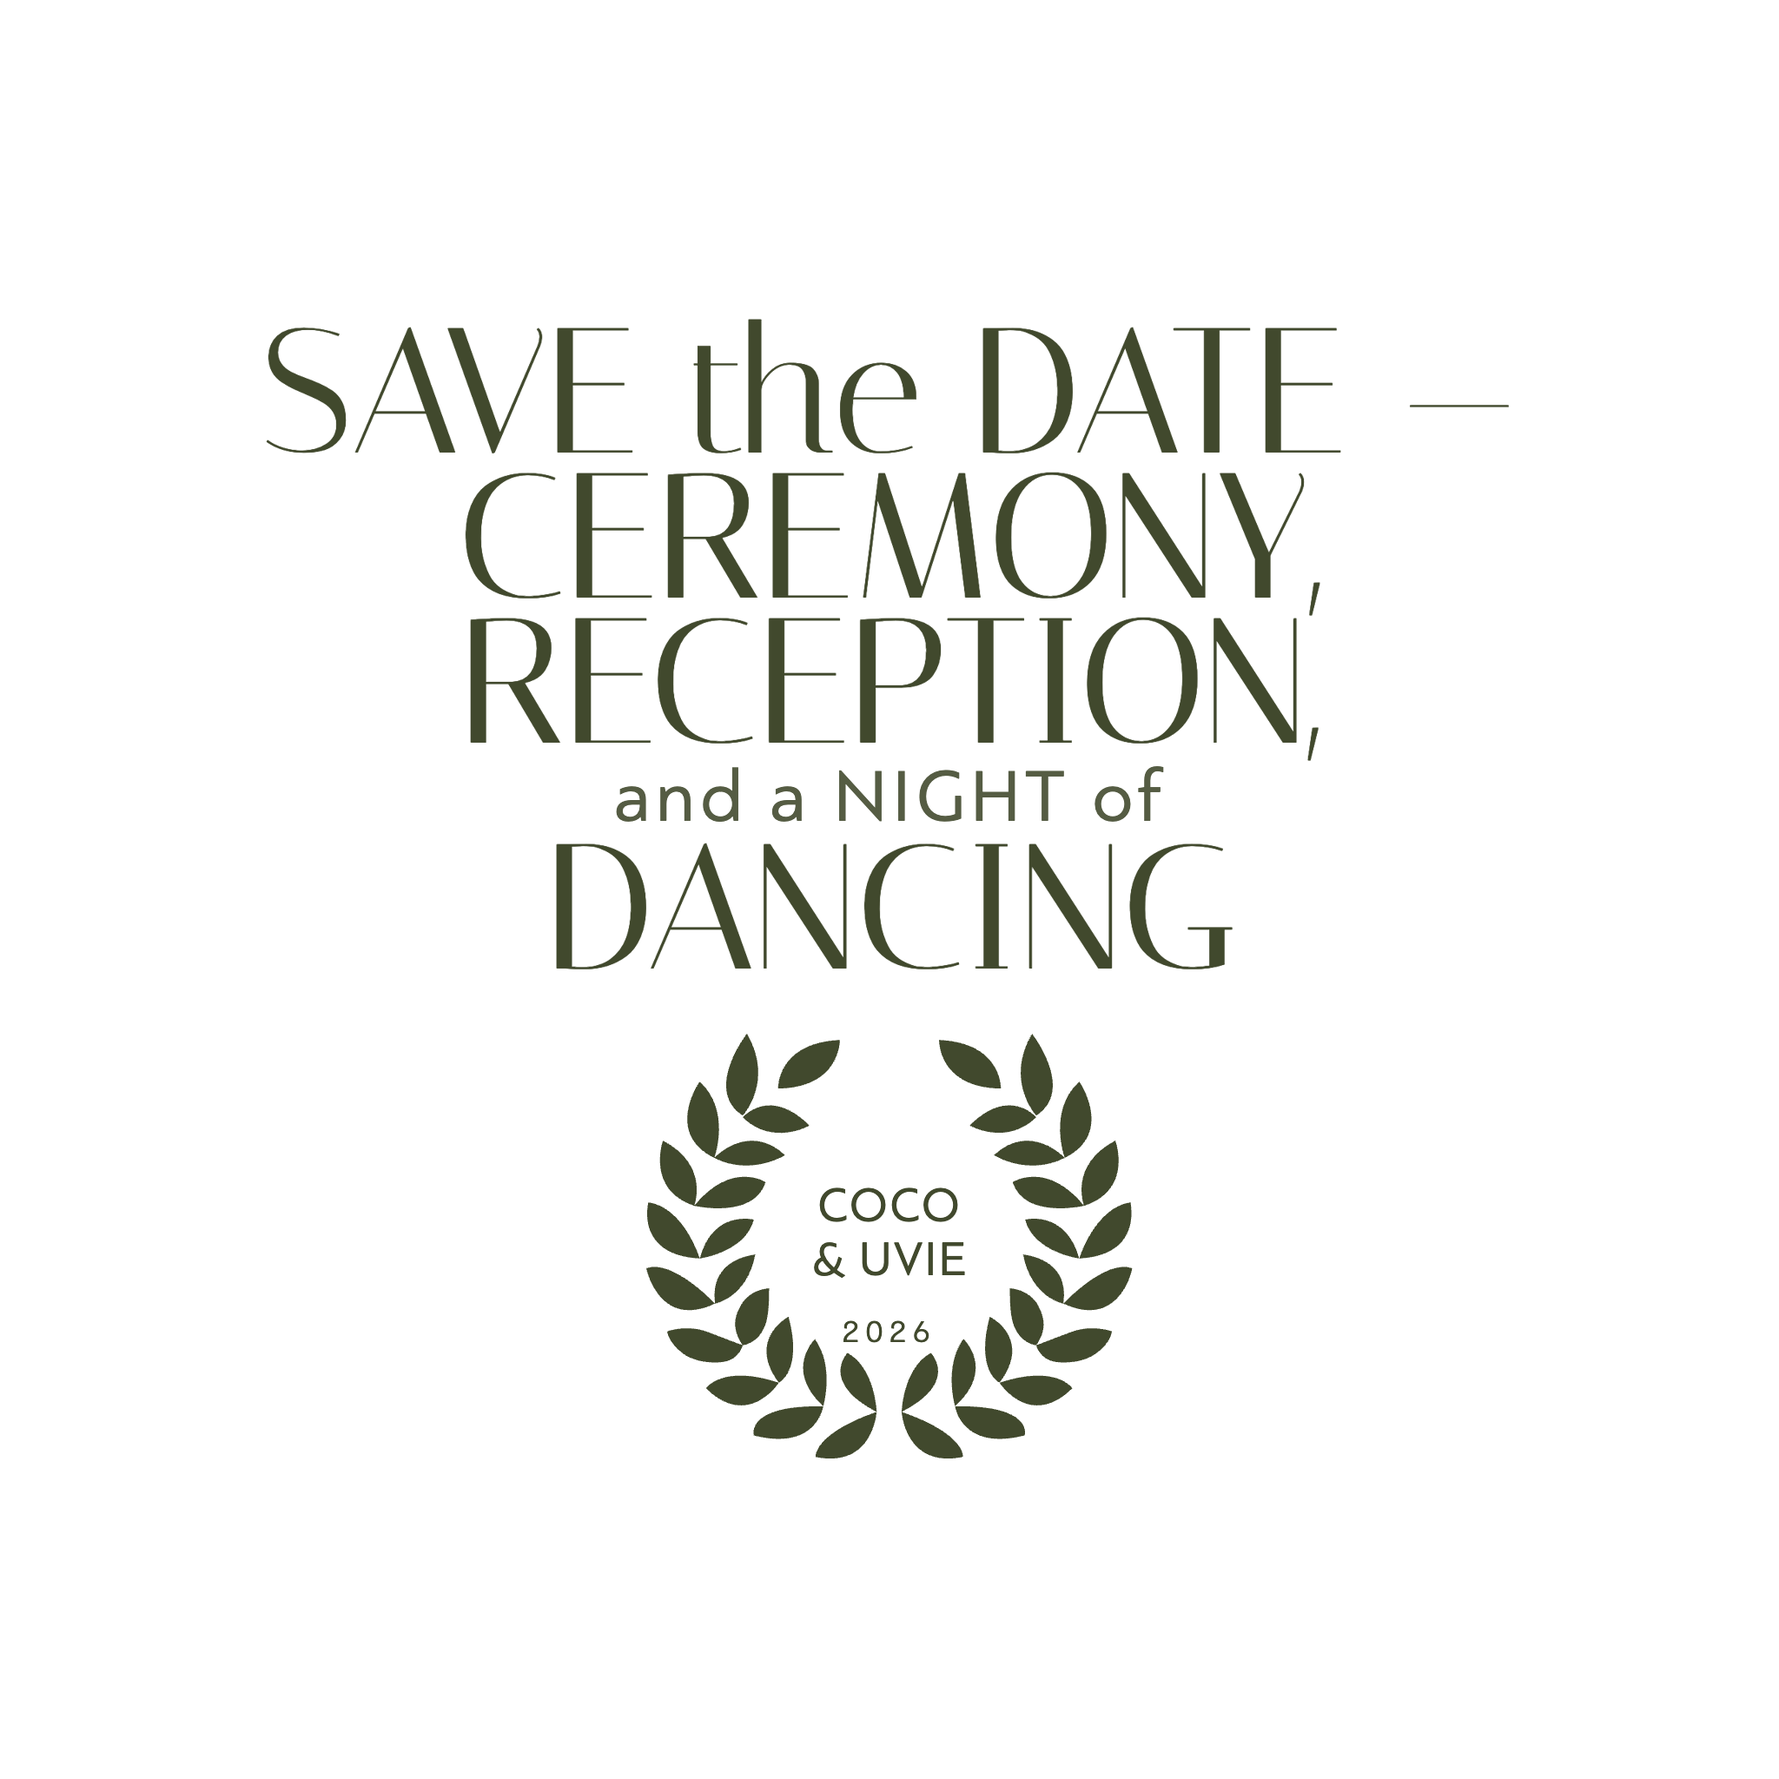
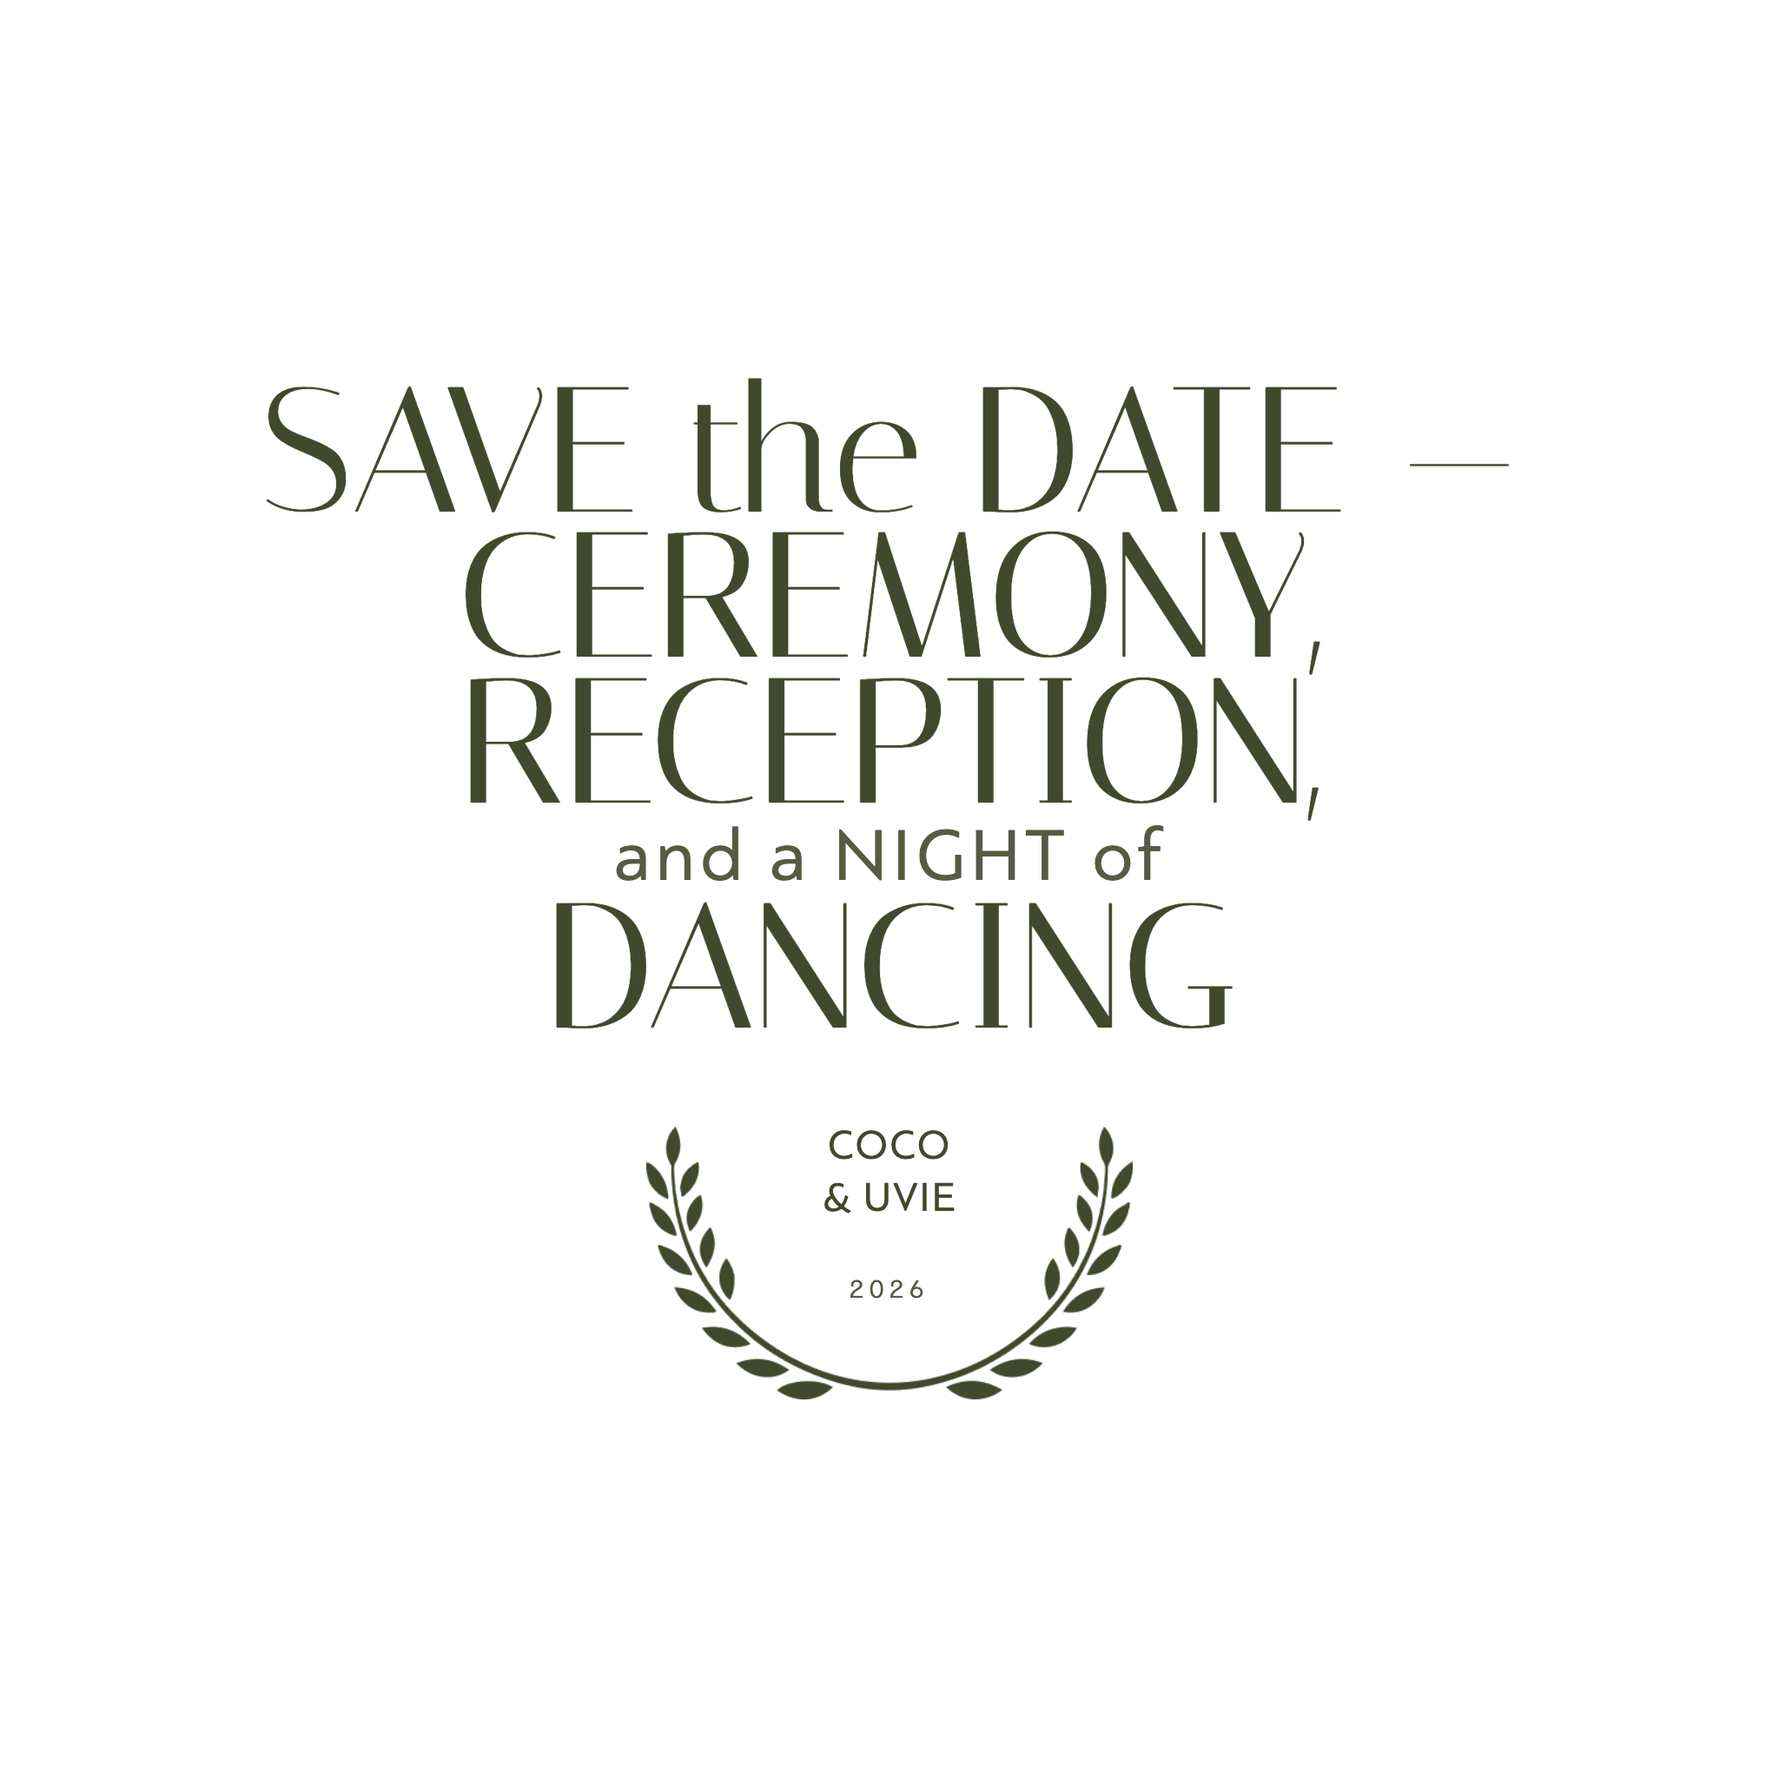
fix(laurel): their wreath, which this repo shipped until July
"I asked you to use the file from their site. That svg is not copyrighted, we already had
it on ours and deleted it."

The second half is verifiable and true, and I should have checked before substituting:
their four tagline textures (public/images/txt-1..4.png) were tracked HERE until
d8d7641a, 2026-07-24, and the wreath is baked into all four. I swapped in a CC0 vector on
a provenance assumption that was mine, not the owner's.

The badge now uses their wreath.

⚠ WHAT IS STORED IS A MASK, NOT THEIR ARTWORK IN THEIR COLOUR. scripts/assets/laurel.png
is 446x250, white on transparent. The extraction flood-fills the badge's components and
keeps only those reaching past r=150 from its centre — the two branches — which drops the
23 glyph blobs of "BEST LOVE STORY / 2024" sitting inside it. 46 components in, 23 out.
badgeCss paints it with currentColor, so each chapter gets the wreath in its own ink;
a straight crop of theirs is one fixed colour and could not.

⚠ 446px is plenty. The badge draws at 560 inside a 2048² texture that renders about
130px wide at 1440 — the mask is downsampled at every size the site actually uses.

⚠ This is NOT the same call as the four per-chapter audio tracks, which were pulled as
unlicensed (site.config.js). That one stands.

Two hand-drawn wreaths (#133, #134) and one CC0 substitute (#135) came before this. The
lesson is not about draughtsmanship: when the user names a specific asset, that is the
[…]

Changed region(s): [[0.125, 0.1875, 0.75, 0.8125], [0.3125, 0.1875, 0.3438, 0.2188]]

diff --git a/AUDIT.md b/AUDIT.md
@@ -1514,4 +1514,5 @@ second time** — the rule was already written in ARCHITECTURE.md.
 | 132 | The tagline went blank while the deck was scrolling | 🟠 High | ✅ Fixed 2026-09-18 — user: *"as I scroll through the deck the text mesh should change. Right now it's empty while I scroll and only shows when the deck settles on one card."* **Two faults, stacked.** (1) `setTxtChapter` killed the running tween and started a NEW fade to zero from wherever the last one had reached, and the fade back IN only existed inside that tween's `onComplete` — which the next change killed before it could fire. The front card changes every 45° of ring rotation, so a scroll re-targets it several times a second and the opacity was dragged down again and again. One swap now runs at a time and always finishes; a change arriving mid-swap only moves the target, and the swap reads the latest one when it turns over. (2) ⚠ **`alphaTest: 0.5` ON THE TAGLINE MATERIAL MADE EVERY CROSSFADE A HARD CUT.** An alphaTest discards any fragment whose alpha — texel × material opacity — falls under it, so the whole plane vanished the instant its opacity crossed 0.5 and reappeared the instant it crossed back. Every fade this material has ever run was really a cut at the halfway mark. The plane writes no depth, so nothing needed it; removed. ⚠ `cancelTxtSwap()` hands the opacity back at the three points where the scene takes it over (select, the return scrub, the bottom exit) — killing the tween alone would leave `txtSwapping` true, and every later swap would be dropped for the rest of the session. |
 | 133 | The laurel | 🟢 Low | ✅ Added 2026-09-18, **redrawn the same day — see #134** — user: *"can we add the flower thing to the bottom of our text mesh? Ofc change it to Coco & Uvie and the year to 2026."* An award laurel under the tagline reading **COCO & UVIE / 2026**, in the chapter's own ink, baked into the same `cu-txt*.png` texture — one plane means one fade, one depth sort, one scale, and the ink for free. ⚠ **DRAWN, NOT TRACED.** `laurelSvg()` computes both sprays: leaves biggest mid-branch and tapering at both ends (a laurel is a spray; one leaf size reads as a cog), with a smaller second row inside the stem. This repo carries none of the reference's art and this is no exception. ⚠ Set in Bague, not Italiana: the badge is chrome, in the chrome voice, under a display-voice tagline. ⚠ **IT MOVED THE TYPE.** The texture is one centred group, so ~500px of new content in a 2048px square pushed the type up ~60px on screen and into the nav — `TXT_Y_DESKTOP` −2 → **−7.5** puts the type back and drops the badge into the band the deeper dip (#129) opened between the last line and the card tops. ⚠ `node scripts/gen-textures.mjs --taglines` regenerates only `cu-txt*.png`; re-run `gen-image-variants.mjs` after it or the `-sm` textures a phone loads are the old art. |
 | 134 | The laurel was a cog, not a wreath | 🟡 Medium | ✅ Fixed 2026-09-18, **and replaced outright — see #135** — user: *"the flower you added looks weird and bad compared to reference site's."* It was proportion, not craft, and I had drawn it from the small screenshot instead of measuring. Pulled their own tagline texture (`/images/txt-1.png`, 2048², studied in the scratchpad — **nothing from it is in this repo**) and measured the badge at full size: | | | ⚠ **the arc spans ~100° from the bottom, not 130°** — theirs is a wide shallow BOWL, mine was very nearly a closed circle; **each leaf is ~0.25 of the wreath's radius, not 0.43**; and there are **~15 a side, not 8**. Small and dense reads as laurel; big and few reads as a cog. ⚠ **AND A BÉZIER BUG UNDERNEATH IT:** a quadratic peaks at HALF its control offset, so `Q L/2 −W/2 … Q L/2 W/2` draws a leaf **W/2** wide, not W. Every leaf was half the width I thought I was specifying, which is what made the first redraw read as spikes. Controls sit at ±W now. ⚠ Every leaf sweeps along the branch toward its tip, which is why the ones at the bottom lie flat instead of hanging down — an earlier pass mirrored them about the stem and they came out as little birds. |
-| 135 | Stop drawing the laurel | 🟢 Low | ✅ Fixed 2026-09-18 — the redraw was rejected too (*"it's worse now. Can we just copy theirs exactly?"*, then *"go ahead and use theirs no problem"*). **The badge is now a CC0 vector, and the reference's file is still not in this repo.** A laurel is ornamental draughtsmanship; two hand-built ones read as homemade even after the proportions were measured off theirs, and the answer was to use one drawn by somebody who draws ornament: *Greek Roman Laurel wreath vector.svg* by Dalovar on Wikimedia Commons, **CC0 1.0** — public domain, no attribution required, commercial use permitted. Stored at `scripts/assets/laurel.svg` with its provenance in the file. ⚠ It is also the better ASSET: real vector (sharp at any texture size, and ours is baked at 560px where theirs is a ~350px raster), and it carries no fill of its own, so each chapter paints it with its own ink — a crop of theirs would have been a fixed-colour bitmap needing an alpha mask per chapter. ⚠ **This site has form here**: four per-chapter audio tracks were the reference's, renamed and unlicensed, and had to be pulled (see `site.config.js`). Every mark on the page should be one the couple can keep. ⚠ The upstream file embeds the base64 raster it was traced from and paints all 38 paths `#6D9D30`; both are stripped in ours. |
+| 135 | Stop drawing the laurel | 🟢 Low | ✅ Fixed 2026-09-18, **superseded the same day — see #136** — the redraw was rejected too (*"it's worse now. Can we just copy theirs exactly?"*, then *"go ahead and use theirs no problem"*). **The badge is now a CC0 vector, and the reference's file is still not in this repo.** A laurel is ornamental draughtsmanship; two hand-built ones read as homemade even after the proportions were measured off theirs, and the answer was to use one drawn by somebody who draws ornament: *Greek Roman Laurel wreath vector.svg* by Dalovar on Wikimedia Commons, **CC0 1.0** — public domain, no attribution required, commercial use permitted. Stored at `scripts/assets/laurel.svg` with its provenance in the file. ⚠ It is also the better ASSET: real vector (sharp at any texture size, and ours is baked at 560px where theirs is a ~350px raster), and it carries no fill of its own, so each chapter paints it with its own ink — a crop of theirs would have been a fixed-colour bitmap needing an alpha mask per chapter. ⚠ **This site has form here**: four per-chapter audio tracks were the reference's, renamed and unlicensed, and had to be pulled (see `site.config.js`). Every mark on the page should be one the couple can keep. ⚠ The upstream file embeds the base64 raster it was traced from and paints all 38 paths `#6D9D30`; both are stripped in ours. |
+| 136 | The laurel is the reference's own, and it was ours before | 🟢 Low | ✅ Fixed 2026-09-18 — user, correcting me: *"I asked you to use the file from their site. That svg is not copyrighted, we already had it on ours and deleted it."* **The second half is verifiable and true:** their four tagline textures (`public/images/txt-1..4.png`) were tracked in this repo until **d8d7641a (2026-07-24)**, and the wreath is baked into all four — I had substituted a CC0 vector (#135) on a provenance assumption the owner corrected. The wreath now comes from their texture, at the owner's instruction. ⚠ **WHAT IS STORED IS A MASK, NOT THEIR ARTWORK IN THEIR COLOUR** — `scripts/assets/laurel.png`, 446×250, white-on-transparent. Extraction: flood-fill the badge's components and keep only those reaching past r=150 from its centre (the two branches), which drops the 23 glyph blobs of "BEST LOVE STORY / 2024" sitting inside; 46 components in, 23 out. The tagline generator paints it with `currentColor`, so each chapter gets the wreath in its own ink — something a straight crop of theirs could not do. ⚠ 446px is plenty: the badge draws at 560 in a 2048² texture that renders ~130px wide at 1440, so the mask is downsampled at every size the site uses. ⚠ Two hand-drawn wreaths (#133, #134) and one CC0 substitute (#135) came before this. The lesson is not about draughtsmanship: **when the user says a specific asset, that is the requirement, and its provenance is theirs to state.** |

diff --git a/docs/CONTENT-AND-ASSETS.md b/docs/CONTENT-AND-ASSETS.md
@@ -394,14 +394,15 @@ The reference pairs **Yaroslava** with wine, **Markita** with la-storia, and **K
 with amour; we use the subset whose images we host.
 
 **The laurel badge** under every tagline (`COCO & UVIE / 2026`) is baked into `cu-txt1..4.png` in
-each chapter's ink. The wreath is **`scripts/assets/laurel.svg`** — *Greek Roman Laurel wreath
-vector.svg* by Dalovar on Wikimedia Commons, **CC0 1.0** (public domain, no attribution required,
-commercial use permitted); it carries no fill of its own, which is how it takes each chapter's ink.
-⚠ The reference site's laurel is a raster inside their own texture and is **not** in this repo —
-same rule that took out the four unlicensed audio tracks (see `site.config.js`). The names and the
-year are not data: changing them means editing `badgeSvg()` in `scripts/gen-textures.mjs` and
-re-running `node scripts/gen-textures.mjs --taglines`, then `gen-image-variants.mjs` for the `-sm`
-copies.
+each chapter's ink. The wreath is **`scripts/assets/laurel.png`** — **the reference site's own**,
+taken out of its tagline texture at the owner's instruction (*"that svg is not copyrighted, we
+already had it on ours and deleted it"*; true — it was in `public/images/txt-1..4.png` here until
+d8d7641a, 2026-07-24). Stored as a 446×250 **alpha mask** with their "BEST LOVE STORY / 2024"
+lettering removed, so the generator paints it with each chapter's ink rather than carrying theirs.
+⚠ Not the same call as the four per-chapter audio tracks, which were pulled as unlicensed (see
+`site.config.js`) — that one stands. The names and the year are not data: changing them means
+editing `badgeHtml`/`badgeCss` in `scripts/gen-textures.mjs` and re-running
+`node scripts/gen-textures.mjs --taglines`, then `gen-image-variants.mjs` for the `-sm` copies.
 
 Google Fonts (loaded via `<link>` in `nuxt.config.ts`, built from `SITE.googleFonts`):
 **Italiana**, **Monoton**, **Over the Rainbow**, **Caveat**. The first three are the loader's

diff --git a/scripts/README.md b/scripts/README.md
@@ -12,11 +12,13 @@ Regenerates every generated texture the WebGL scene uses, into `public/images/`:
 | `cu-p1..4.png` | The same faces **rendered to PNG** — this is what the scene loads. |
 | `cu-txt1..4.png` | The centre **tagline** art (2048×2048, transparent) — the four lines of type **and the laurel badge** under them (`COCO & UVIE / 2026`, in the chapter's ink). |
 
-**`assets/laurel.svg`** is the badge's wreath: *Greek Roman Laurel wreath vector.svg* by Dalovar
-(Wikimedia Commons), **CC0 1.0** — public domain, no attribution required, commercial use fine. It
-carries no `fill`, so `badgeSvg()` paints it with the chapter's ink. Two hand-drawn wreaths were
-tried first and both read as homemade (AUDIT #133–#135); the reference's own laurel is **not** in
-this repo and should not be added.
+**`assets/laurel.png`** is the badge's wreath — the **reference site's own**, extracted from its
+tagline texture at the owner's instruction (it was in this repo until d8d7641a, baked into the
+`txt-1..4.png` we shipped then). It is stored as a **446×250 alpha mask**, white on transparent,
+with their "BEST LOVE STORY / 2024" lettering removed: the components were flood-filled and only
+those reaching past r=150 from the badge centre — the two branches — were kept. `badgeCss` paints
+it with `currentColor`, so each chapter gets it in its own ink. Two hand-drawn wreaths and one CC0
+substitute came first and were all rejected (AUDIT #133–#136).
 | `cu-logo.png` | The nav/card **wordmark** (480×480, transparent). |
 | `cu-favicon.png` | The **browser-tab mark** (180×180) — the ampersand, on the site's ground. Replaced the reference site's star `favicon.ico`, deleted 2026-09-03. |
 

diff --git a/docs/PHASE-2-INNER-PAGES.md b/docs/PHASE-2-INNER-PAGES.md
@@ -221,6 +221,26 @@ needing an alpha mask per chapter.
 unlicensed, and had to be pulled (`site.config.js`). Every mark on the page should be one the couple
 can keep.
 
+### ↩↩↩ And the CC0 one was wrong too — it is THEIR wreath, and it was ours before (#136)
+
+*"I asked you to use the file from their site. That svg is not copyrighted, we already had it on
+ours and deleted it."*
+
+The second half is verifiable and true: their four tagline textures (`public/images/txt-1..4.png`)
+were tracked in this repo until **d8d7641a, 2026-07-24**, and the wreath is baked into all four. I
+had substituted on a provenance assumption the owner corrected.
+
+The wreath now comes from their texture. ⚠ What is stored is a **mask, not their artwork in their
+colour**: `scripts/assets/laurel.png`, 446×250, white on transparent. The extraction flood-fills the
+badge's components and keeps only those reaching past r=150 from its centre — the two branches —
+which drops the 23 glyph blobs of "BEST LOVE STORY / 2024" that sat inside (46 components in, 23
+out). The generator paints it with `currentColor`, so each chapter gets the wreath in its own ink,
+which a straight crop could not do.
+
+⚠ Two hand-drawn wreaths and a CC0 substitute came first. The lesson is not about draughtsmanship:
+**when the user names a specific asset, that is the requirement, and its provenance is theirs to
+state.**
+
 ---
 
 ## ▶▶ THE HOVER, TUNED DOWN — AND THE DECK GIVEN ITS AIR BACK — 2026-09-18 (AUDIT #128)
